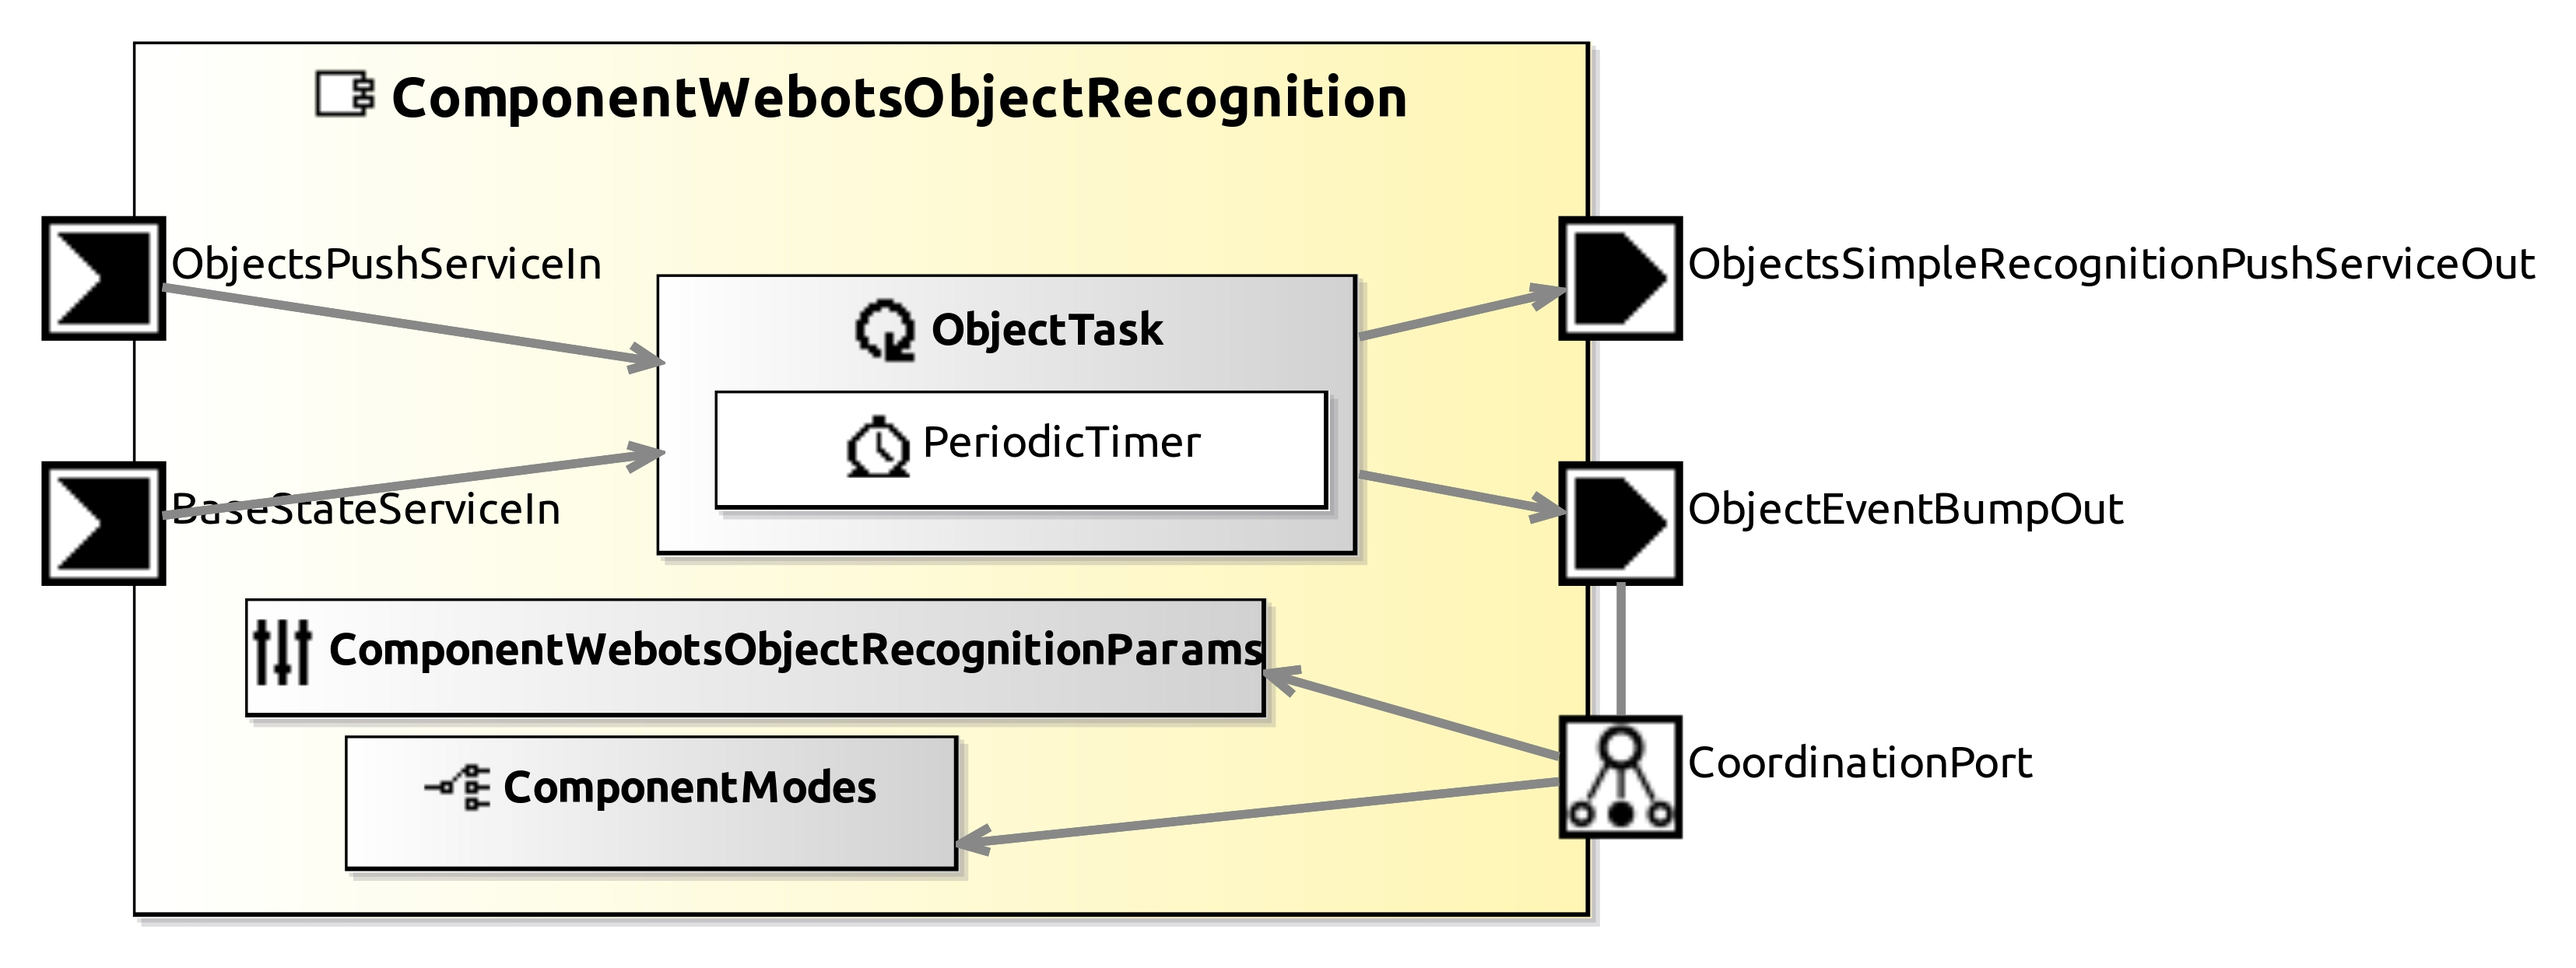
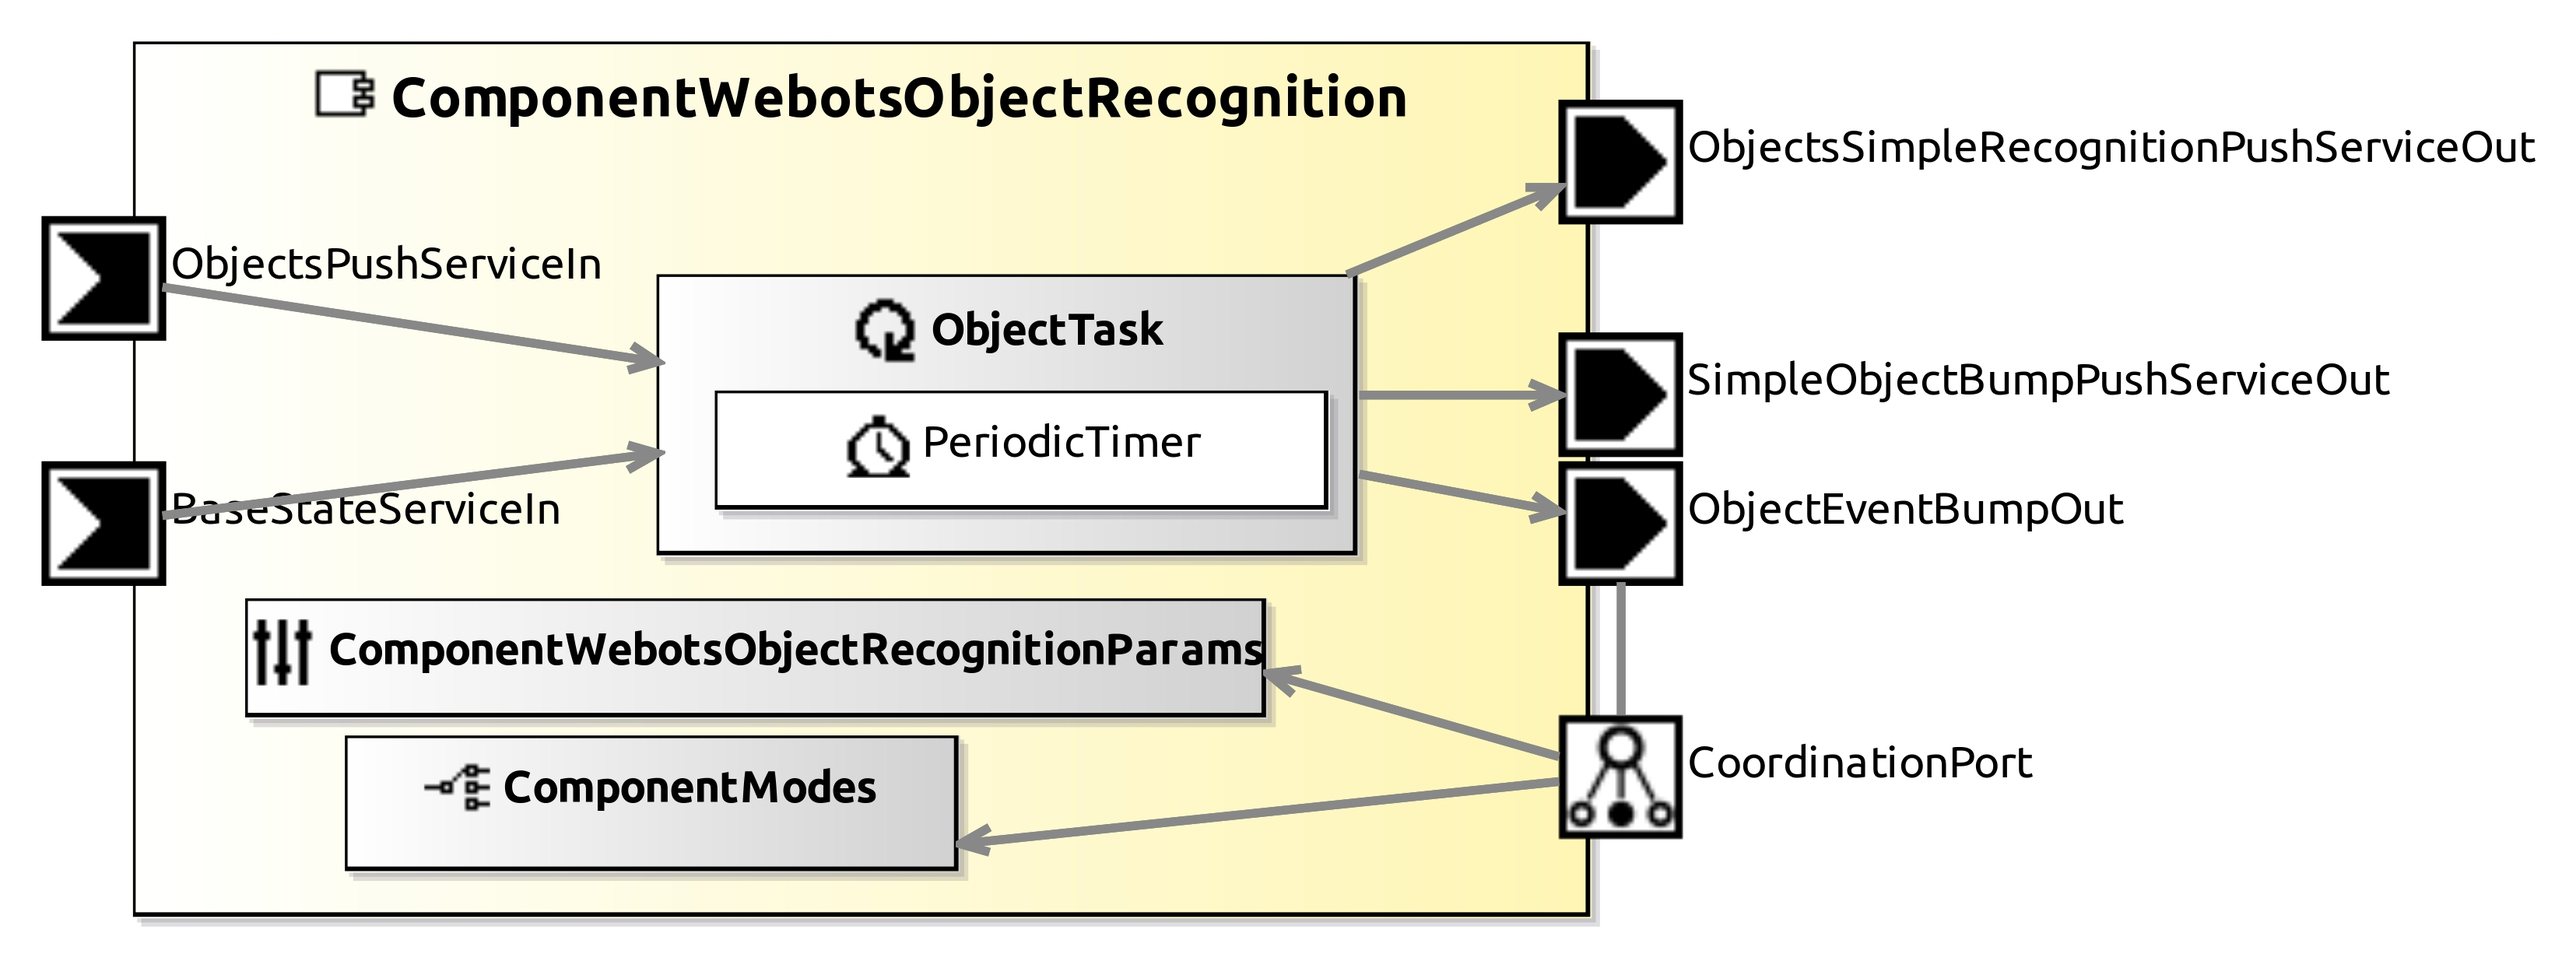
add object recognition new push pattern that mock the event

Changed region(s): [[0.529, 0.0916, 0.9958, 0.4887], [0.529, 0.2444, 0.5601, 0.2749]]

diff --git a/ComponentWebotsObjectRecognition/smartsoft/src/ObjectTask.cc b/ComponentWebotsObjectRecognition/smartsoft/src/ObjectTask.cc
@@ -68,6 +68,8 @@ int ObjectTask::on_exit()
 void ObjectTask::checkBump(const ObjectEnvironment& objs, 
 const BaseState& base) {
   BumpState bump;
+  CommBasicObjects::SimpleBumpState simple_bump_state;
+  simple_bump_state.setIs_valid(true);
   bump.setState(CommObjectRecognitionObjects::ObjectBumpState::NOT_BUMP);
   std::vector<unsigned int> ids;
   for(auto& obj : objs.getObjectsCopy()){
@@ -76,12 +78,14 @@ const BaseState& base) {
         pow(obj.getPose().get_x(1) - base.getBasePose().get_x(1), 2) +
         pow(obj.getPose().get_y(1) - base.getBasePose().get_y(1), 2));
       if (dist < object_bump_threshold_) {
+        simple_bump_state.setIs_bumped(true);
         ids.push_back(obj.getObject_id());
         bump.setState(CommObjectRecognitionObjects::ObjectBumpState::BUMP);
         std::cout << "Object bump! Object is: " << obj.getObject_type() << "\n";
       }
     }
   }
+  simpleObjectBumpPushServiceOutPut(simple_bump_state);
   bump.setObject_id(ids);
   objectEventBumpOutPut(bump);
 }
